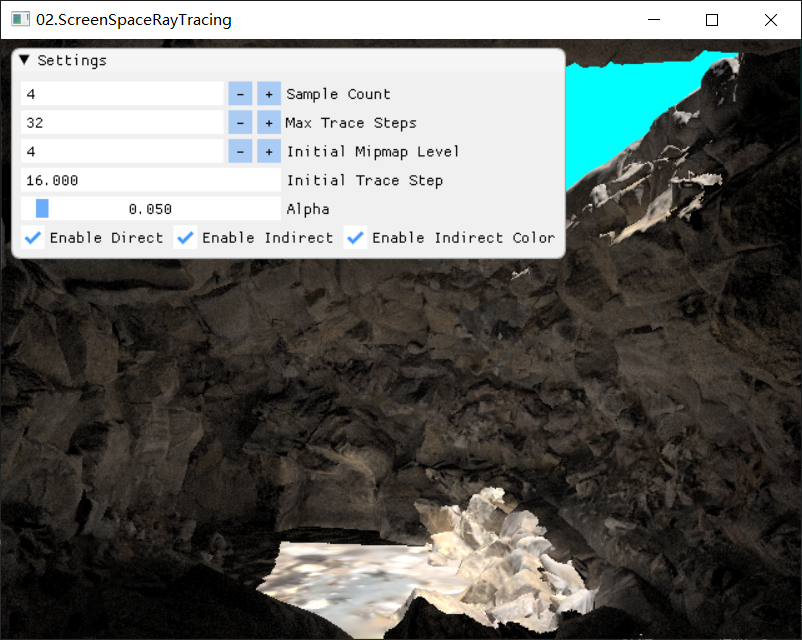
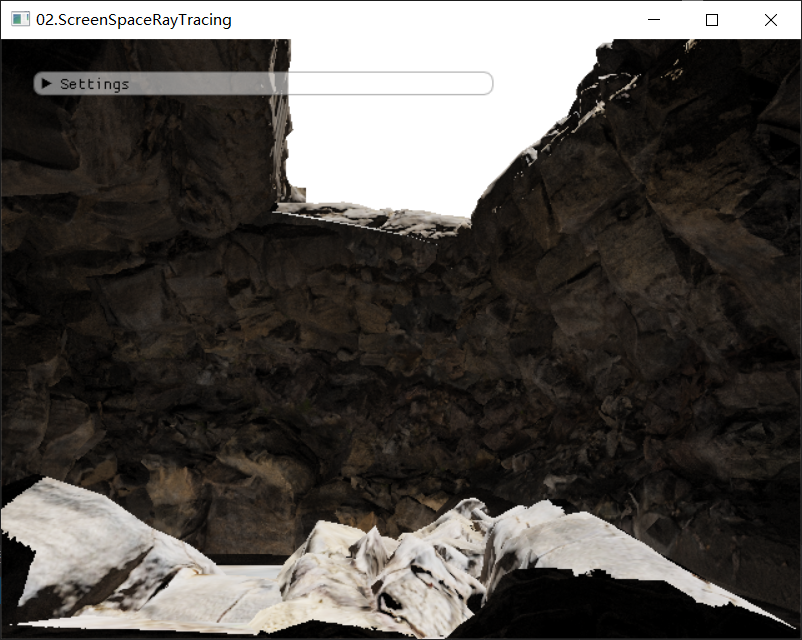
add tone mapping

diff --git a/src/02.SSRT/main.cpp b/src/02.SSRT/main.cpp
@@ -105,6 +105,10 @@ private:
 
         if(ImGui::Begin("Settings", nullptr, ImGuiWindowFlags_AlwaysAutoResize))
         {
+            ImGui::SliderFloat("Light Hori Angle", &lightHoriAngle_, 0, 360);
+            ImGui::SliderFloat("Light Vert Angle", &lightVertAngle_, 0, 90);
+            ImGui::SliderFloat("Light Radiance", &lightRadiance_, 0, 30);
+
             if(ImGui::InputInt("Sample Count", &sampleCount_))
             {
                 sampleCount_ = (std::max)(1, sampleCount_);
@@ -150,14 +154,22 @@ private:
             assert(enableDirect_ || enableIndirect_);
             if(enableDirect_ && enableIndirect_)
                 enableIndirectColor_ = true;
+
+            ImGui::SliderFloat("Exposure", &exposure_, 0, 2);
         }
         ImGui::End();
 
         // light
-        
+
         DirectionalLight light = {};
-        light.direction = Float3(0, -2, -0.4f).normalize();
-        light.radiance  = Float3(5);
+        light.direction = {
+             std::sin(agz::math::deg2rad(lightVertAngle_)) *
+             std::cos(agz::math::deg2rad(lightHoriAngle_)),
+            -std::cos(agz::math::deg2rad(lightVertAngle_)),
+             std::sin(agz::math::deg2rad(lightVertAngle_)) *
+             std::sin(agz::math::deg2rad(lightHoriAngle_))
+        };
+        light.radiance  = Float3(lightRadiance_);
 
         const Float3 lightLookAt = { 0, 0, 0 };
         const Mat4 lightViewProj =
@@ -201,8 +213,8 @@ private:
         if(enableIndirect_)
         {
             // hack: regenerate samples in every frame so that we can accumulate
-            // results in history frames. in theory, progressive low-disparency
-            // sequence can converge faster.
+            // different estimates in history frames
+            // ideally, progressive low-disparency sequence should be used
             indirect_.setSampleCount(sampleCount_);
 
             indirect_.setCamera(
@@ -230,13 +242,14 @@ private:
         window_->useDefaultRTVAndDSV();
         window_->useDefaultViewport();
         window_->clearDefaultDepth(1);
-        window_->clearDefaultRenderTarget({ 0, 1, 1, 0 });
-
+        window_->clearDefaultRenderTarget({ 1, 1, 1, 0 });
+        
         final_.render(
             gbuffer_->getGBuffer(1),
             enableDirect_   ? direct_.getOutput() : nullptr,
             enableIndirect_ ? accu_  .getOutput() : nullptr,
-            enableIndirectColor_);
+            enableIndirectColor_,
+            exposure_);
 
         // finalize
         
@@ -313,9 +326,15 @@ private:
 
     GBufferGenerator *gbuffer_ = nullptr;
 
-    bool enableDirect_        = true;
-    bool enableIndirect_      = true;
-    bool enableIndirectColor_ = true;
+    float lightRadiance_ = 15;
+
+    float lightHoriAngle_ = 26;
+    float lightVertAngle_ = 27;
+
+    bool  enableDirect_        = true;
+    bool  enableIndirect_      = true;
+    bool  enableIndirectColor_ = true;
+    float exposure_            = 1;
 
     int   sampleCount_      = 4;
     int   maxTraceSteps_    = 32;

diff --git a/src/02.SSRT/final.cpp b/src/02.SSRT/final.cpp
@@ -28,7 +28,8 @@ void FinalRenderer::render(
     ComPtr<ID3D11ShaderResourceView> gbufferB,
     ComPtr<ID3D11ShaderResourceView> direct,
     ComPtr<ID3D11ShaderResourceView> indirect,
-    bool                             indirectColor)
+    bool                             indirectColor,
+    float                            exposure)
 {
     assert(direct || indirect);
 
@@ -36,6 +37,7 @@ void FinalRenderer::render(
     psParamsData.direct        = direct != nullptr;
     psParamsData.indirect      = indirect != nullptr;
     psParamsData.indirectColor = indirectColor;
+    psParamsData.exposure      = exposure;
 
     psParams_.update(psParamsData);
 

diff --git a/src/02.SSRT/final.h b/src/02.SSRT/final.h
@@ -12,7 +12,8 @@ public:
         ComPtr<ID3D11ShaderResourceView> gbufferB,
         ComPtr<ID3D11ShaderResourceView> direct,
         ComPtr<ID3D11ShaderResourceView> indirect,
-        bool                             indirectColor);
+        bool                             indirectColor,
+        float                            exposure);
 
 private:
 
@@ -21,7 +22,7 @@ private:
         int   direct;
         int   indirect;
         int   indirectColor;
-        float pad1;
+        float exposure;
     };
 
     Shader<VS, PS>         shader_;

diff --git a/src/02.SSRT/indirect.cpp b/src/02.SSRT/indirect.cpp
@@ -122,9 +122,11 @@ void IndirectRenderer::render(
 
 void IndirectRenderer::updateRawSamples()
 {
+    static std::default_random_engine::result_type seed = 0;
+
     const int N = indirectParamsData_.sampleCount;
 
-    std::default_random_engine rng{ std::random_device{}() };
+    std::default_random_engine rng{ seed + 1 };
     std::uniform_real_distribution<float> dis(0, 1);
 
     std::vector<cy::Point2f> candidateSamples;

diff --git a/src/02.SSRT/accumulate.cpp b/src/02.SSRT/accumulate.cpp
@@ -23,7 +23,7 @@ void IndirectAccumulator::initialize(const Int2 &res)
         D3D11_TEXTURE_ADDRESS_CLAMP,
         D3D11_TEXTURE_ADDRESS_CLAMP,
         D3D11_TEXTURE_ADDRESS_CLAMP);
-    shaderRscs_.getSamplerSlot<CS>("PointSampler")->setSampler(sampler);
+    shaderRscs_.getSamplerSlot<CS>("LinearSampler")->setSampler(sampler);
 
     resize(res);
 }
